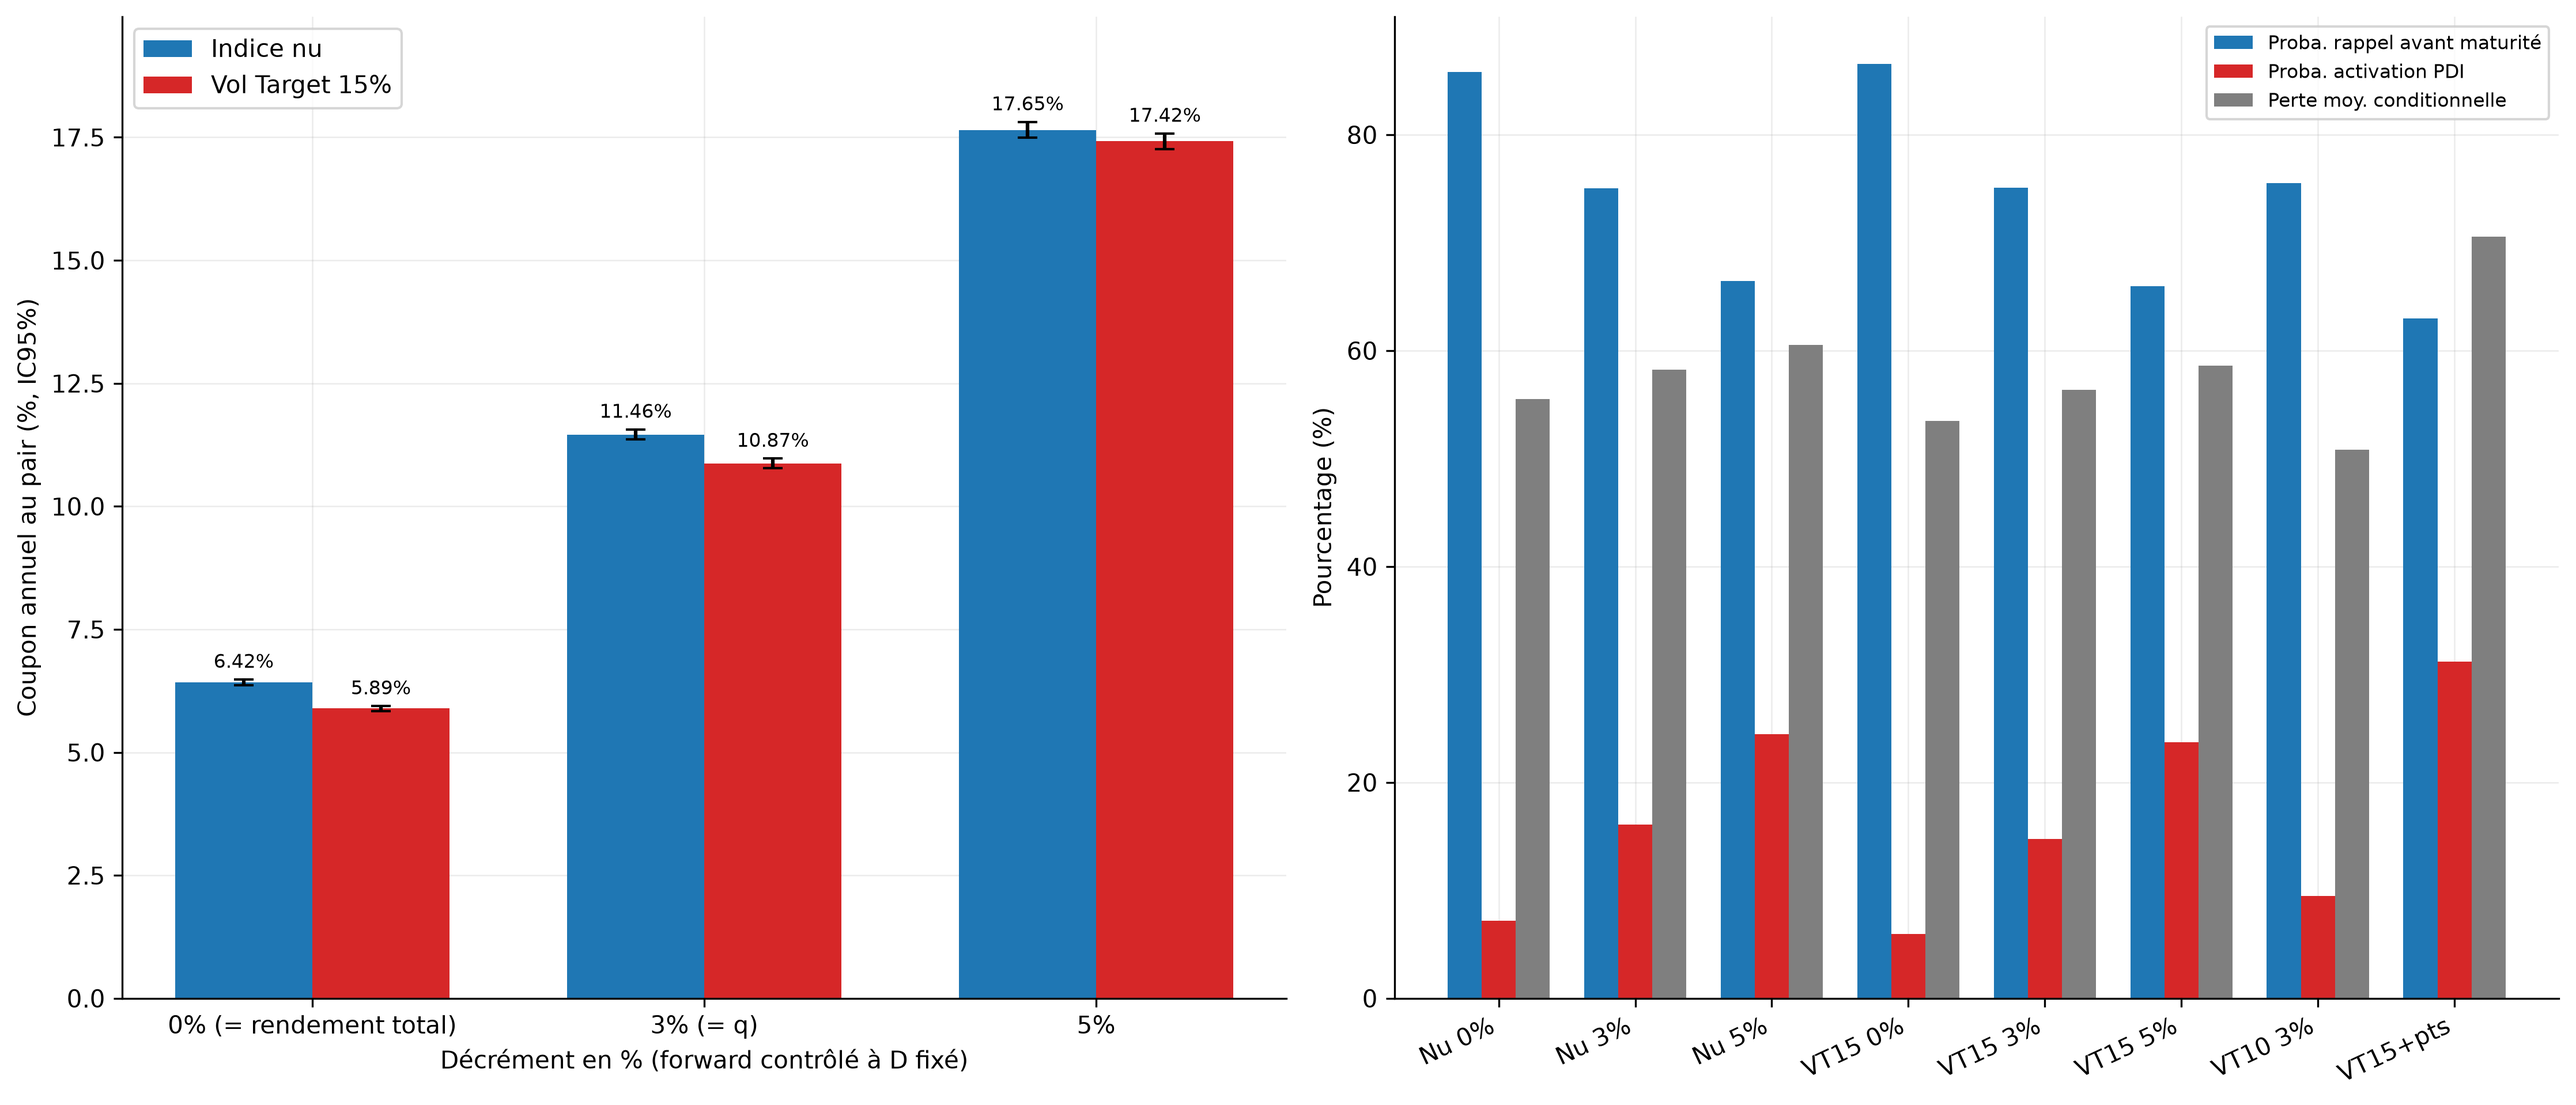
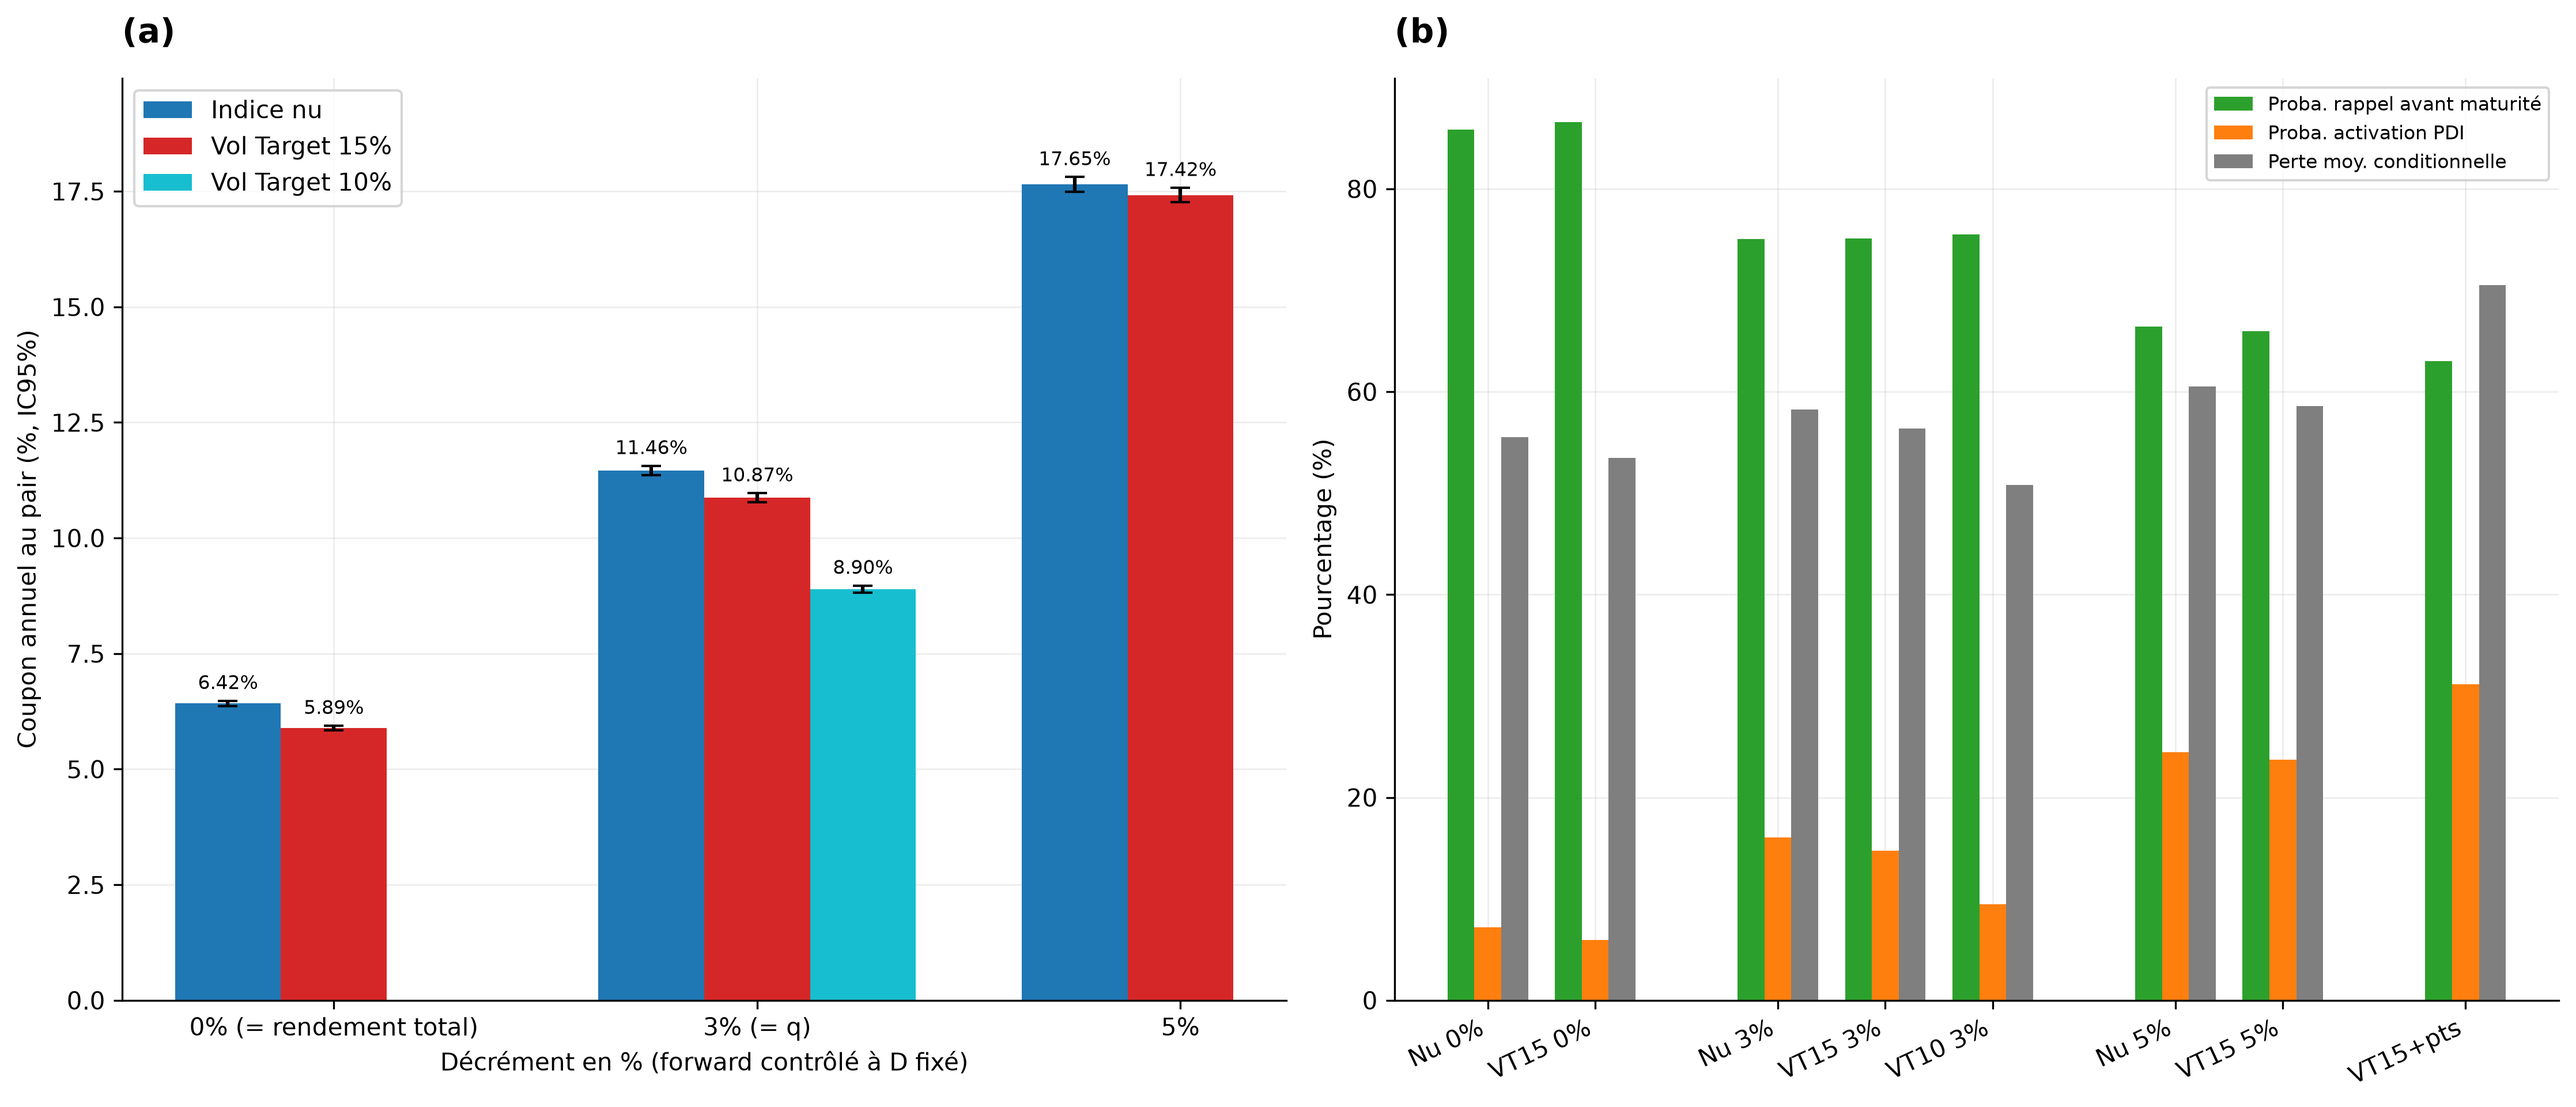
Retouches visuelles de la Figure E : palette, réordonnancement, VT10, (a)/(b)
Aucune simulation relancée -- régénère uniquement le PNG à partir de
figures/figureE_resultats.csv déjà écrit (ajoute scripts/figE_vol_target_decrement.py
--figure-seule pour ce cas d'usage, via un nouveau
charger_resultats_pour_figure() qui relit le CSV ; chiffres inchangés,
vérifié par comparaison d'empreinte du CSV/MD avant/après).

- Panneau (b) : palette vert/orange/gris, distincte du bleu/rouge/sarcelle
  du panneau (a) -- (a) encode la configuration par la couleur, (b) la
  métrique ; réutiliser bleu/rouge aurait créé une fausse association entre
  les deux panneaux.
- Panneau (b) : configurations réordonnées par bloc de décrément (0% / 3% /
  5% / points) avec un espacement entre blocs, plus lisible que l'ordre de
  construction interne (NOMS).
- Panneau (a) : ajoute une troisième barre "Vol Target 10%" (couleur
  sarcelle) uniquement à la colonne 3%=q, avec sa valeur affichée (8.90%) --
  seule configuration VT10 de la figure, pas de barre aux colonnes 0%/5% où
  elle n'existe pas.
- "(a)" et "(b)" ajoutés en haut à gauche de chaque panneau.

Claude-Session: https://claude.ai/code/session_015eQVDicu4ABDg8MAAznT6W

diff --git a/scripts/figE_vol_target_decrement.py b/scripts/figE_vol_target_decrement.py
@@ -183,9 +183,17 @@ COULEURS = {
     "vt15_decr0": "#d62728",
     "vt15_decr3": "#d62728",
     "vt15_decr5": "#d62728",
-    "vt10_decr3": "#ff7f0e",
+    "vt10_decr3": "#17becf",
     "vt15_decr_pts": "#9467bd",
 }
+
+# Palette du panneau (b) de la figure, délibérément distincte de celle du
+# panneau (a) (bleu/rouge/sarcelle = configuration) : le panneau (b) encode
+# la MÉTRIQUE par la couleur, pas la configuration -- réutiliser bleu/rouge
+# ici créerait une fausse association entre les deux panneaux.
+COULEUR_RAPPEL = "#2ca02c"
+COULEUR_PDI = "#ff7f0e"
+COULEUR_PERTE = "#7f7f7f"
 
 
 TAILLE_LOT = 20_000  # trajectoires par lot -- cf. docstring de construire_configurations
@@ -354,6 +362,29 @@ def coupon_ic95(resultat, r):
     return erreur_std_coupon, 1.96 * erreur_std_coupon
 
 
+def charger_resultats_pour_figure():
+    """Recharge les résultats déjà écrits dans figures/figureE_resultats.csv
+    (aucune nouvelle simulation) -- utile pour régénérer uniquement le rendu
+    de la figure (couleurs, mise en page, annotations) sans relancer les
+    200 000 trajectoires, tant que le CSV reflète déjà la dernière
+    simulation. Reconstruit le même dict que la boucle de `main()` alimente
+    `tracer_figure` avec, à partir des seules colonnes nécessaires au tracé."""
+    chemin_csv = os.path.join(REPERTOIRE_FIGURES, "figureE_resultats.csv")
+    df = pd.read_csv(chemin_csv)
+    libelle_vers_nom = {libelle: nom for nom, libelle in LIBELLES.items()}
+    resultats = {}
+    for _, ligne in df.iterrows():
+        nom = libelle_vers_nom[ligne["configuration"]]
+        resultats[nom] = {
+            "coupon_pair": ligne["coupon_pair_pct"] / 100,
+            "coupon_ic95_demi_largeur": ligne["coupon_ic95_demi_largeur_pct"] / 100,
+            "proba_rappel_avant_maturite": ligne["proba_rappel_avant_maturite_pct"] / 100,
+            "proba_pdi": ligne["proba_pdi_actif_pct"] / 100,
+            "perte_cond": ligne["perte_moyenne_cond_pct"] / 100,
+        }
+    return resultats
+
+
 def main():
     t0 = time.time()
     os.makedirs(REPERTOIRE_FIGURES, exist_ok=True)
@@ -430,22 +461,31 @@ def tracer_figure(resultats):
     appliquer_style()
     fig, (ax_coupon, ax_risque) = plt.subplots(1, 2, figsize=(15, 6.5))
 
-    # --- Panneau principal : grille 2x3 à forward contrôlé, barres groupées
-    # nu vs Vol Target 15% pour chaque niveau de décrément -- lecture directe
-    # de l'effet Vol Target "toutes choses égales par ailleurs" (même forward
-    # théorique sur chaque paire). ---
+    # --- Panneau (a) : grille 2x3 à forward contrôlé, barres groupées nu vs
+    # Vol Target 15% pour chaque niveau de décrément -- lecture directe de
+    # l'effet Vol Target "toutes choses égales par ailleurs" (même forward
+    # théorique sur chaque paire). Vol Target 10% ajouté en 3e barre
+    # UNIQUEMENT à D=3%=q (seule configuration VT10 de la figure), pour une
+    # comparaison directe à VT15 sans élargir les colonnes 0% et 5% où elle
+    # n'existe pas. ---
     labels_decrement = ["0% (= rendement total)", "3% (= q)", "5%"]
     x = np.arange(len(DECREMENTS_GRILLE))
-    largeur = 0.35
+    largeur = 0.25
     coupons_nu = [resultats[f"nu_{d}"]["coupon_pair"] * 100 for d in DECREMENTS_GRILLE]
     erreurs_nu = [resultats[f"nu_{d}"]["coupon_ic95_demi_largeur"] * 100 for d in DECREMENTS_GRILLE]
     coupons_vt = [resultats[f"vt15_{d}"]["coupon_pair"] * 100 for d in DECREMENTS_GRILLE]
     erreurs_vt = [resultats[f"vt15_{d}"]["coupon_ic95_demi_largeur"] * 100 for d in DECREMENTS_GRILLE]
+    coupon_vt10 = resultats["vt10_decr3"]["coupon_pair"] * 100
+    erreur_vt10 = resultats["vt10_decr3"]["coupon_ic95_demi_largeur"] * 100
+    index_3pct = list(DECREMENTS_GRILLE).index("decr3")
 
-    barres_nu = ax_coupon.bar(x - largeur / 2, coupons_nu, width=largeur, yerr=erreurs_nu,
+    barres_nu = ax_coupon.bar(x - largeur, coupons_nu, width=largeur, yerr=erreurs_nu,
                                color=COULEURS["nu_decr0"], capsize=4, label="Indice nu")
-    barres_vt = ax_coupon.bar(x + largeur / 2, coupons_vt, width=largeur, yerr=erreurs_vt,
+    barres_vt = ax_coupon.bar(x, coupons_vt, width=largeur, yerr=erreurs_vt,
                                color=COULEURS["vt15_decr0"], capsize=4, label="Vol Target 15%")
+    barre_vt10 = ax_coupon.bar([x[index_3pct] + largeur], [coupon_vt10], width=largeur,
+                                yerr=[erreur_vt10], color=COULEURS["vt10_decr3"], capsize=4,
+                                label="Vol Target 10%")
     # Valeurs affichées sur les barres : la figure doit se lire seule, sans
     # repasser par RESULTATS.md pour connaître les coupons exacts -- utile ici
     # en particulier parce que les écarts nu/VT15 à forward contrôlé sont
@@ -454,33 +494,61 @@ def tracer_figure(resultats):
                          padding=3, fontsize=8)
     ax_coupon.bar_label(barres_vt, labels=[f"{c:.2f}%" for c in coupons_vt],
                          padding=3, fontsize=8)
+    ax_coupon.bar_label(barre_vt10, labels=[f"{coupon_vt10:.2f}%"], padding=3, fontsize=8)
     ax_coupon.set_xticks(x)
     ax_coupon.set_xticklabels(labels_decrement)
     ax_coupon.set_xlabel("Décrément en % (forward contrôlé à D fixé)")
     ax_coupon.set_ylabel("Coupon annuel au pair (%, IC95%)")
     ax_coupon.margins(y=0.12)
     ax_coupon.legend()
+    ax_coupon.text(0.0, 1.03, "(a)", transform=ax_coupon.transAxes,
+                    fontsize=14, fontweight="bold", va="bottom", ha="left")
 
-    # --- Panneau secondaire : rappel / PDI / perte conditionnelle pour les 8
-    # configurations (barres groupées, axe de pourcentage partagé -- cf.
-    # convention de la Figure B). ---
-    noms = NOMS
+    # --- Panneau (b) : rappel / PDI / perte conditionnelle pour les 8
+    # configurations, réordonnées pour regrouper visuellement par niveau de
+    # décrément (0% / 3% / 5% / points), avec un espacement entre blocs --
+    # plus lisible que l'ordre de construction (NOMS) pour relier ce panneau
+    # au panneau (a). Palette différente du panneau (a) à dessein : (a)
+    # encode la CONFIGURATION par la couleur (bleu=nu, rouge=VT15,
+    # sarcelle=VT10), (b) encode la MÉTRIQUE par la couleur -- réutiliser
+    # bleu/rouge ici créerait une fausse association entre les deux
+    # panneaux. ---
+    blocs = [
+        ["nu_decr0", "vt15_decr0"],
+        ["nu_decr3", "vt15_decr3", "vt10_decr3"],
+        ["nu_decr5", "vt15_decr5"],
+        ["vt15_decr_pts"],
+    ]
+    noms = [nom for bloc in blocs for nom in bloc]
     libelles_courts = [LIBELLES_COURTS[n] for n in noms]
-    x2 = np.arange(len(noms))
+
+    ecart_bloc = 0.7
+    x2 = []
+    curseur = 0.0
+    for i, bloc in enumerate(blocs):
+        if i > 0:
+            curseur += ecart_bloc
+        for _ in bloc:
+            x2.append(curseur)
+            curseur += 1.0
+    x2 = np.array(x2)
+
     largeur2 = 0.25
     proba_rappel = [resultats[n]["proba_rappel_avant_maturite"] * 100 for n in noms]
     proba_pdi = [resultats[n]["proba_pdi"] * 100 for n in noms]
     pertes = [resultats[n]["perte_cond"] * 100 for n in noms]
-    ax_risque.bar(x2 - largeur2, proba_rappel, width=largeur2, color="#1f77b4",
+    ax_risque.bar(x2 - largeur2, proba_rappel, width=largeur2, color=COULEUR_RAPPEL,
                   label="Proba. rappel avant maturité")
-    ax_risque.bar(x2, proba_pdi, width=largeur2, color="#d62728",
+    ax_risque.bar(x2, proba_pdi, width=largeur2, color=COULEUR_PDI,
                   label="Proba. activation PDI")
-    ax_risque.bar(x2 + largeur2, pertes, width=largeur2, color="#7f7f7f",
+    ax_risque.bar(x2 + largeur2, pertes, width=largeur2, color=COULEUR_PERTE,
                   label="Perte moy. conditionnelle")
     ax_risque.set_xticks(x2)
     ax_risque.set_xticklabels(libelles_courts, rotation=25, ha="right")
     ax_risque.set_ylabel("Pourcentage (%)")
     ax_risque.legend(fontsize=8)
+    ax_risque.text(0.0, 1.03, "(b)", transform=ax_risque.transAxes,
+                    fontsize=14, fontweight="bold", va="bottom", ha="left")
 
     fig.tight_layout()
     chemin = os.path.join(REPERTOIRE_FIGURES, "figureE_vol_target_decrement.png")
@@ -490,4 +558,11 @@ def tracer_figure(resultats):
 
 
 if __name__ == "__main__":
-    main()
+    if len(sys.argv) > 1 and sys.argv[1] == "--figure-seule":
+        # Retouches visuelles (couleurs, mise en page, annotations) sans
+        # relancer les 200 000 trajectoires : relit figureE_resultats.csv,
+        # déjà à jour, et ne régénère que le PNG.
+        os.makedirs(REPERTOIRE_FIGURES, exist_ok=True)
+        tracer_figure(charger_resultats_pour_figure())
+    else:
+        main()
